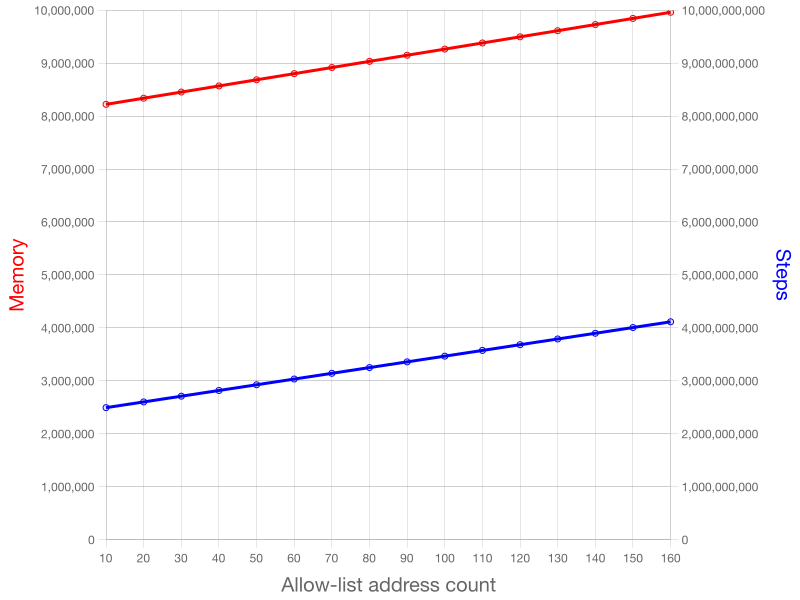
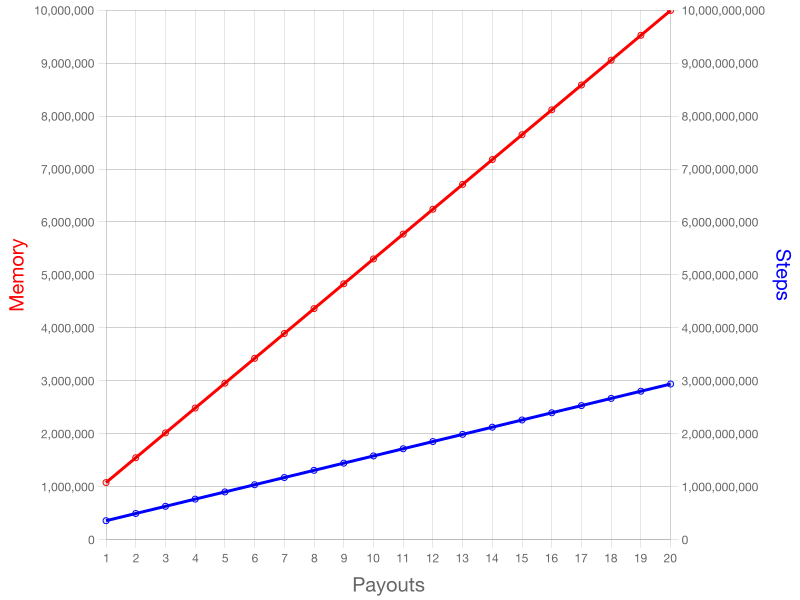
Update allow-list benchmark 2 with increasing payout count

diff --git a/offchain/benchmarks/mlabs.test.ts b/offchain/benchmarks/mlabs.test.ts
@@ -78,7 +78,7 @@ describe("Benchmark: on-chain execution performance limitations of allowlist ven
     )
   });
 
-  test("bench2: withdraw 16 payouts with 4 asset classes to single address", async () => {
+  test("bench2: withdraw n payouts with 4 asset classes to single address", async () => {
     const xs = [];
     const mem = [];
     const steps = [];
@@ -90,9 +90,9 @@ describe("Benchmark: on-chain execution performance limitations of allowlist ven
       "e".repeat(56),
       ];
 
-    for (let i = 10; i < 200; i += 10) {
+    for (let i = 1; i < 200; i += 1) {
       try {
-        const exUnits = await runWithNAddresses({ assets, outputAddresses: 1, allowListAddresses: i, payouts: 16 })
+        const exUnits = await runWithNAddresses({ assets, outputAddresses: 1, allowListAddresses: 1, payouts: i })
 
         xs.push(i);
         mem.push(exUnits.mem);
@@ -109,7 +109,7 @@ describe("Benchmark: on-chain execution performance limitations of allowlist ven
     }
 
     await printExUnitChart("./benchmarks/results/bench2.png",
-      { xs, xLabel: "Allow-list address count", mem, steps }
+      { xs, xLabel: "Payouts", mem, steps }
     )
   });
 
